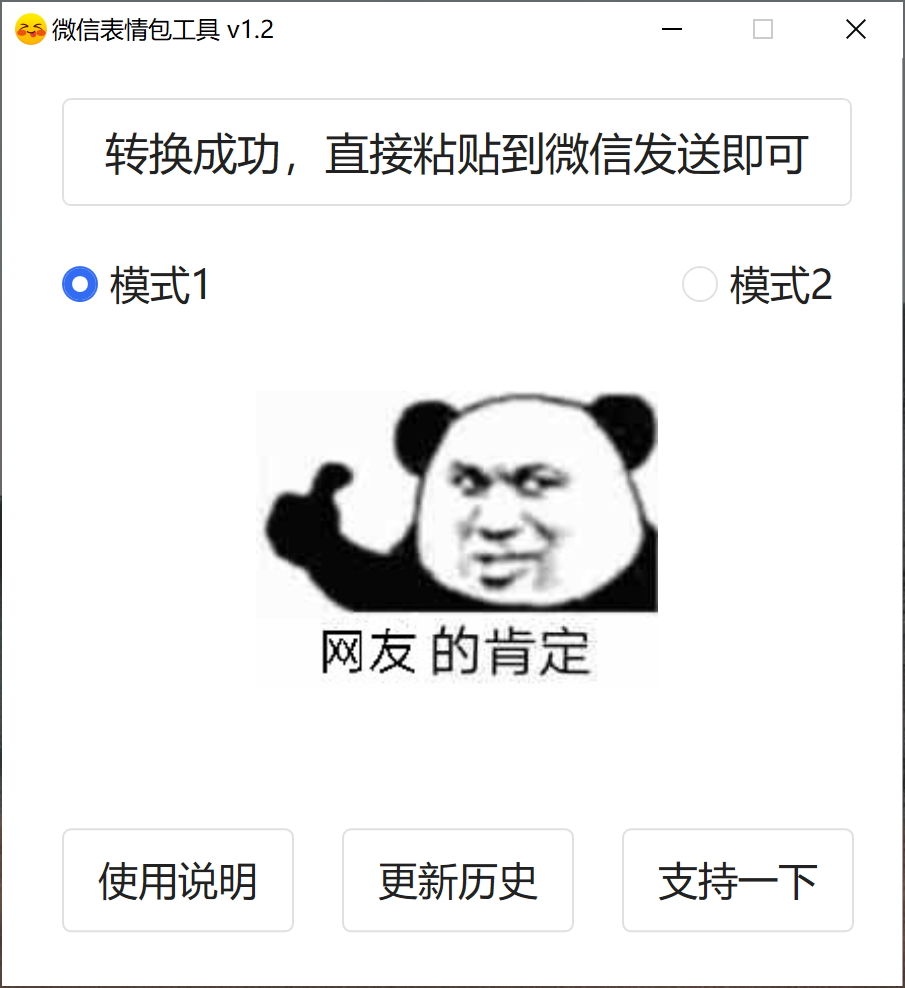
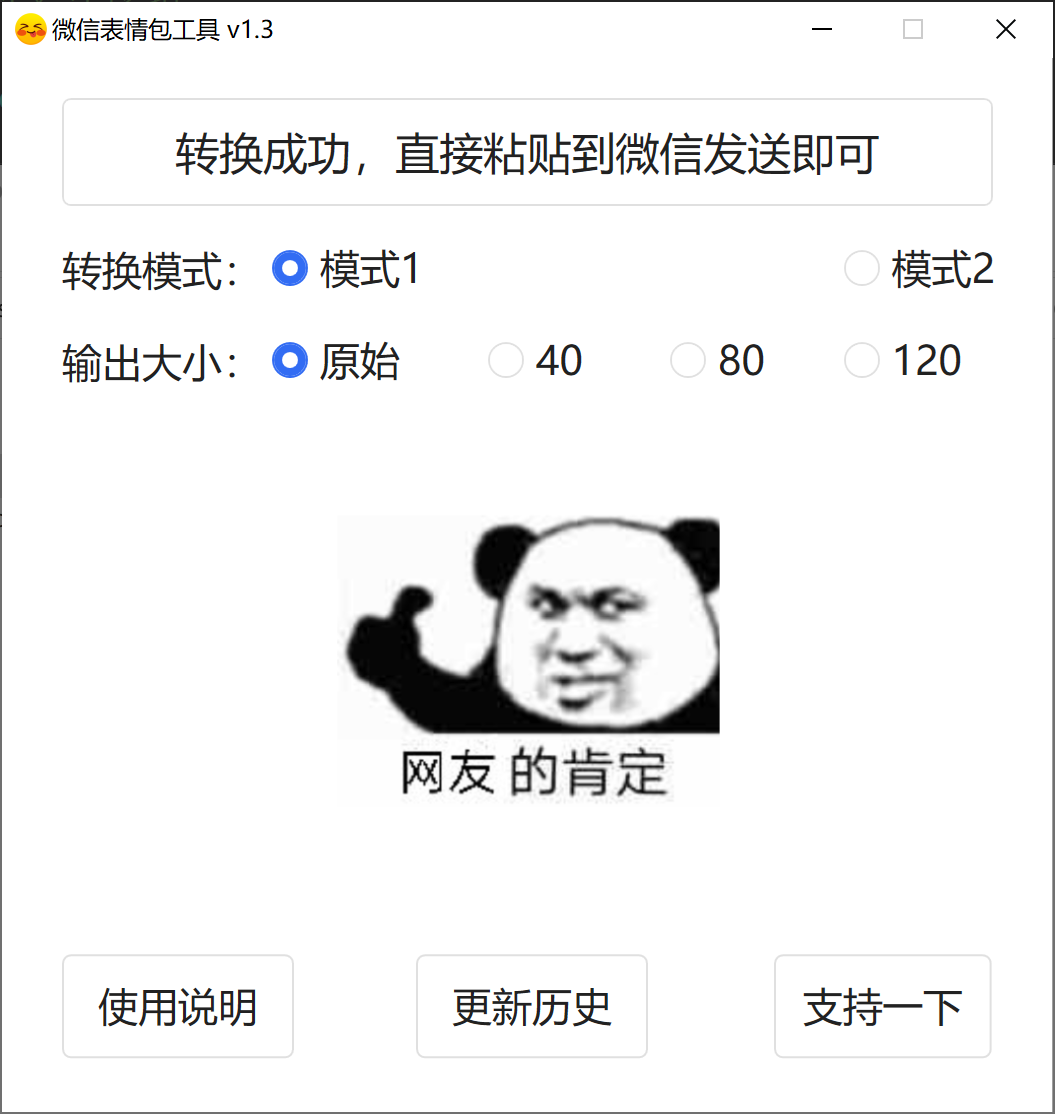
支持多种输出大小 Fix #2

diff --git a/pic2meme/MainWindow.xaml b/pic2meme/MainWindow.xaml
@@ -5,17 +5,23 @@
         xmlns:mc="http://schemas.openxmlformats.org/markup-compatibility/2006"
         xmlns:local="clr-namespace:pic2meme" xmlns:hc="https://handyorg.github.io/handycontrol"
         mc:Ignorable="d"
-        Title="微信表情包工具 v1.2.2" Height="535.632" Width="538.297" AllowDrop="True" Drop="Window_Drop" KeyDown="Window_KeyDown" ResizeMode="CanMinimize">
+        Title="微信表情包工具 v1.3" Height="562.632" Width="538.297" AllowDrop="True" Drop="Window_Drop" KeyDown="Window_KeyDown" ResizeMode="CanMinimize">
     <Grid>
         <Label x:Name="Notice" Content="拖动或粘贴图片到此处进行表情包转换" FontSize="22" Margin="30,20,30,0" VerticalAlignment="Top" Height="54" HorizontalContentAlignment="Center" VerticalContentAlignment="Center" HorizontalAlignment="Stretch" />
-        <hc:GifImage x:Name="Preview" Stretch="Uniform" Height="200" Width="200" Margin="128,151,129.5,127.5" />
+        <hc:GifImage x:Name="Preview" Stretch="Uniform" Height="200" Width="200" Margin="166,191,166.5,116" />
 
 
         <Button x:Name="Usage" Content="使用说明" HorizontalAlignment="Left" Margin="30,0,0,27" VerticalAlignment="Bottom" Width="116" Height="52" FontSize="20" Click="Usage_Click" FocusVisualStyle="{x:Null}" />
         <Button x:Name="ChangeLog" Content="更新历史" HorizontalAlignment="Left" Margin="207,0,0,27" VerticalAlignment="Bottom" Width="116" Height="52" FontSize="20" Click="ChangeLog_Click" FocusVisualStyle="{x:Null}" />
         <Button x:Name="BuyMyACoffee" Content="支持一下" HorizontalAlignment="Stretch" Margin="386,0,30.5,27" VerticalAlignment="Bottom" Height="52" FontSize="20" Click="BuyMyACoffee_Click" FocusVisualStyle="{x:Null}" />
-        <RadioButton x:Name="CovertMode1" Content="模式1" HorizontalAlignment="Left" VerticalAlignment="Top" Margin="80,94,0,0" Height="38" Width="85" FontSize="20" GroupName="CovertMode" IsChecked="True" Checked="CovertMode1_Checked" FocusVisualStyle="{x:Null}" />
-        <RadioButton x:Name="CovertMode2" Content="模式2" HorizontalAlignment="Right" VerticalAlignment="Top" Margin="0,94,70.5,0" Height="38" FontSize="20" GroupName="CovertMode" Checked="CovertMode2_Checked" FocusVisualStyle="{x:Null}" Width="85" />
-        <Label x:Name="PreviewLabel" Content="" Margin="166,240,166.5,217" BorderThickness="0"  FontSize="18" Width="200" Height="50" VerticalContentAlignment="Center" HorizontalContentAlignment="Center" />
+        <RadioButton x:Name="CovertMode1" Content="模式1" HorizontalAlignment="Left" VerticalAlignment="Top" Margin="135,86,0,0" Height="38" Width="85" FontSize="20" GroupName="CovertMode" IsChecked="True" Checked="ReCovert" FocusVisualStyle="{x:Null}" />
+        <RadioButton x:Name="CovertMode2" Content="模式2" HorizontalAlignment="Right" VerticalAlignment="Top" Margin="0,86,19.5,0" Height="38" FontSize="20" GroupName="CovertMode" Checked="ReCovert" FocusVisualStyle="{x:Null}" Width="85" />
+        <Label x:Name="PreviewLabel" Content="" Margin="166,266,166.5,191" BorderThickness="0"  FontSize="18" Width="200" Height="50" VerticalContentAlignment="Center" HorizontalContentAlignment="Center" />
+        <RadioButton x:Name="SizeMode_Raw" Content="原始" HorizontalAlignment="Left" VerticalAlignment="Top" Margin="135,132,0,0" Height="38" Width="70" FontSize="20" GroupName="SizeMode" IsChecked="True" Checked="ReCovert" FocusVisualStyle="{x:Null}" />
+        <RadioButton x:Name="SizeMode_40" Content="40" HorizontalAlignment="Left" VerticalAlignment="Top" Margin="243,132,0,0" Height="38" Width="70" FontSize="20" GroupName="SizeMode" IsChecked="False" Checked="ReCovert" FocusVisualStyle="{x:Null}" />
+        <RadioButton x:Name="SizeMode_80" Content="80" HorizontalAlignment="Left" VerticalAlignment="Top" Margin="334,132,0,0" Height="38" Width="70" FontSize="20" GroupName="SizeMode" IsChecked="False" Checked="ReCovert" FocusVisualStyle="{x:Null}" />
+        <RadioButton x:Name="SizeMode_120" Content="120" HorizontalAlignment="Right" VerticalAlignment="Top" Margin="0,132,34.5,0" Height="38" FontSize="20" GroupName="SizeMode" IsChecked="False" Checked="ReCovert" FocusVisualStyle="{x:Null}" Width="70" />
+        <Label Content="转换模式：" HorizontalAlignment="Left" Margin="20,87,0,0" VerticalAlignment="Top" HorizontalContentAlignment="Left" BorderThickness="0" Width="108" FontSize="20" Height="36"/>
+        <Label Content="输出大小：" HorizontalAlignment="Left" Margin="20,133,0,0" VerticalAlignment="Top" HorizontalContentAlignment="Left" BorderThickness="0" Width="108" FontSize="20" Height="36"/>
     </Grid>
 </Window>

diff --git a/pic2meme/MainWindow.xaml.cs b/pic2meme/MainWindow.xaml.cs
@@ -55,6 +55,16 @@ namespace pic2meme
             return 0;
         }
 
+        private int GetSizeMode()
+        {
+            if (SizeMode_Raw.IsChecked.GetValueOrDefault(false)) return 1;
+            if (SizeMode_40.IsChecked.GetValueOrDefault(false)) return 2;
+            if (SizeMode_80.IsChecked.GetValueOrDefault(false)) return 3;
+            if (SizeMode_120.IsChecked.GetValueOrDefault(false)) return 4;
+
+            return 0;
+        }
+
         private async void pic2meme()
         {
             if (!_init) return;
@@ -67,6 +77,7 @@ namespace pic2meme
             Notice.Content = "转换中...";
 
             var covertMode = GetCovertMode();
+            var sizeMode = GetSizeMode();
 
             if (covertMode == 0)
             {
@@ -74,6 +85,17 @@ namespace pic2meme
 
                 return;
             }
+            if (sizeMode == 0)
+            {
+                Notice.Content = $"转换失败：不支持的输出大小{sizeMode}";
+
+                return;
+            }
+
+            var forceSize = 0;
+            if (sizeMode == 2) forceSize = 40;
+            if (sizeMode == 3) forceSize = 80;
+            if (sizeMode == 4) forceSize = 120;
 
             var sourceImage = "";
 
@@ -211,16 +233,29 @@ namespace pic2meme
                             return;
                         }
                     }
+                    if (sizeMode > 1)
+                    {
+                        sourceImage = tmpImage;
+                        tmpImage = GenerateTempFile(".gif");
+                        if (covertMode == 1)
+                        {
+                            covertTask = Utils.Any2GIF(sourceImage, tmpImage, forceSize);
+                        }
+                        else if (covertMode == 2)
+                        {
+                            covertTask = Utils.Any2GIF2(sourceImage, tmpImage, forceSize);
+                        }
+                    }
                 }
                 else
                 {
                     if (covertMode == 1)
                     {
-                        covertTask = Utils.Any2GIF(sourceImage, tmpImage);
+                        covertTask = Utils.Any2GIF(sourceImage, tmpImage, forceSize);
                     }
                     else if (covertMode == 2)
                     {
-                        covertTask = Utils.Any2GIF2(sourceImage, tmpImage);
+                        covertTask = Utils.Any2GIF2(sourceImage, tmpImage, forceSize);
                     }
                 }
             }
@@ -351,17 +386,7 @@ namespace pic2meme
             buymeacoffee.ShowDialog();
         }
 
-        private void CovertMode1_Checked(object sender, RoutedEventArgs e)
-        {
-            pic2meme();
-        }
-
-        private void CovertMode2_Checked(object sender, RoutedEventArgs e)
-        {
-            pic2meme();
-        }
-
-        private void CovertMode3_Checked(object sender, RoutedEventArgs e)
+        private void ReCovert(object sender, RoutedEventArgs e)
         {
             pic2meme();
         }

diff --git a/pic2meme/Utils.cs b/pic2meme/Utils.cs
@@ -78,16 +78,16 @@ namespace pic2meme
             return (width, height);
         }
 
-        public static Task<bool> Any2GIF(string filePath, string savePath, int maxsize = 0)
+        public static Task<bool> Any2GIF(string filePath, string savePath, int forceSize = 0)
         {
             try
             {
                 return ISImage.LoadAsync(filePath).ContinueWith(task => {
                     var image = task.Result;
-                    if (maxsize > 0 && (image.Width > maxsize || image.Height > maxsize))
+                    int max = Math.Max(image.Width, image.Height);
+                    if (forceSize > 0 && max != forceSize)
                     {
-                        int max = Math.Max(image.Width, image.Height);
-                        float scale = max / maxsize;
+                        float scale = max / forceSize;
                         image.Mutate(x => x.Resize((int)(image.Width / scale), (int)(image.Height / scale)));
                     }
                     image.SaveAsGif(savePath);
@@ -102,16 +102,16 @@ namespace pic2meme
             }
         }
 
-        public static Task<bool> Any2GIF2(string filePath, string savePath, int maxsize = 0)
+        public static Task<bool> Any2GIF2(string filePath, string savePath, int forceSize = 0)
         {
             try
             {
                 return ISImage.LoadAsync(filePath).ContinueWith(task => {
                     var image = task.Result;
-                    if (maxsize > 0 && (image.Width > maxsize || image.Height > maxsize))
+                    int max = Math.Max(image.Width, image.Height);
+                    if (forceSize > 0 && max != forceSize)
                     {
-                        int max = Math.Max(image.Width, image.Height);
-                        float scale = max / maxsize;
+                        float scale = max / forceSize;
                         image.Mutate(x => x.Resize((int)(image.Width / scale), (int)(image.Height / scale)));
                     }
                     var gifEncoder = new GifEncoder();

diff --git a/pic2meme/ChangeLogWindow.xaml.cs b/pic2meme/ChangeLogWindow.xaml.cs
@@ -25,6 +25,9 @@ namespace pic2meme
             this.MinWidth = this.MaxWidth = this.Width;
             this.MinHeight = this.MaxHeight = this.Height;
             ChangeLog.Text = @"
+v1.3 - 2022/04/08
+1. 支持多种输出大小
+
 v1.2.2 - 2022/04/08
 1. 优化UI
 2. 优化预览图生成速度
